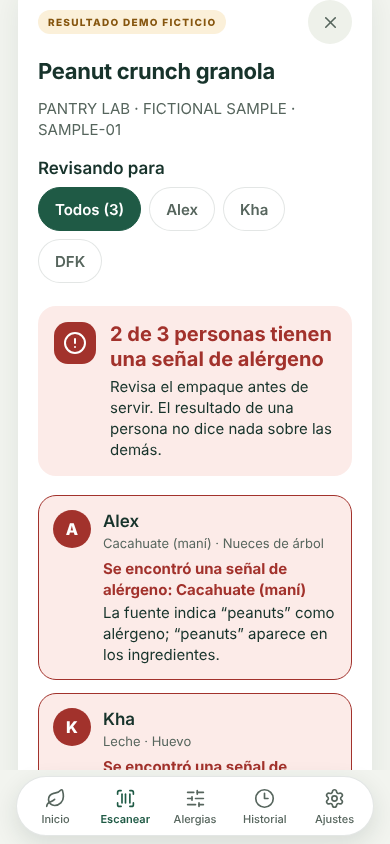
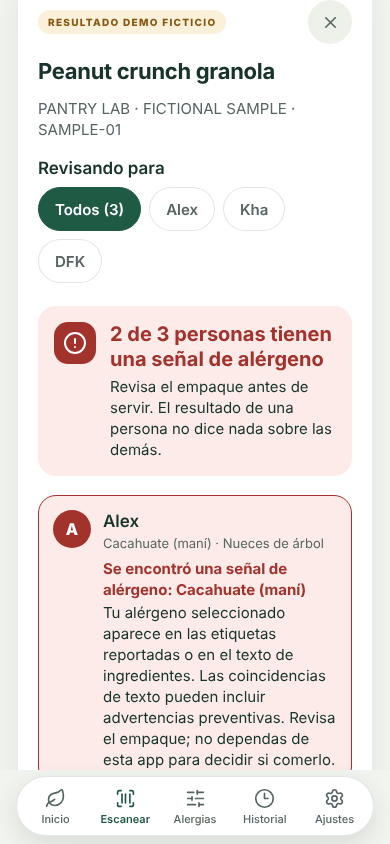
Remove evidence highlighting
Results no longer show the "Why this result" section or highlighted
ingredient words. Family profiles, the design pass and languages are
unchanged. Revert this commit to bring the feature back.

Claude-Session: https://claude.ai/code/session_013c7JU5W7uoyK8XfJoYebFz

Changed region(s): [[0.0923, 0.7085, 0.8615, 0.9242], [0.8615, 0.8009, 0.8923, 0.8318]]

diff --git a/App.tsx b/App.tsx
@@ -5,7 +5,7 @@ import { SafeAreaProvider, SafeAreaView } from 'react-native-safe-area-context';
 import { CameraView, useCameraPermissions } from 'expo-camera';
 import { ArrowUpRight, BookOpen, Camera, Check, Languages, ChevronRight, CircleAlert, CircleQuestionMark, Clock3, Info, Leaf, LockKeyhole, LogOut, Pencil, Plus, RotateCcw, ScanBarcode, Search, Settings, ShieldCheck, SlidersHorizontal, Sparkles, Trash2, TriangleAlert, UserRound, X } from 'lucide-react-native';
 import type { Session } from '@supabase/supabase-js';
-import { ALLERGENS, AllergenId, assess, Assessment, assessPeople, cleanName, Evidence, highlightIngredients, householdSummary, MAX_MEMBERS, Person, PersonResult, Product, unionAllergies, validBarcode, validName, worstKind } from './src/domain/allergens';
+import { ALLERGENS, AllergenId, assess, Assessment, assessPeople, cleanName, householdSummary, MAX_MEMBERS, Person, PersonResult, Product, validBarcode, validName, worstKind } from './src/domain/allergens';
 import { LookupError, lookupProduct, SAMPLES } from './src/data/products';
 import { detectLanguage, I18n, isLang, Lang, languageName, LANGUAGES, makeI18n, MessageKey, translate } from './src/i18n';
 import { cloudConfigured, supabase } from './src/lib/supabase';
@@ -36,16 +36,15 @@ const KIND_KEY = { contains: 'kind.contains', traces: 'kind.traces', unknown: 'k
 function words({ t, tp, list }: I18n) {
   const allergyLabel = (id: AllergenId) => t(`allergen.${id}` as MessageKey);
   const labelOf = (english: string) => { const a = ALLERGENS.find(x => x.label === english); return a ? allergyLabel(a.id) : english; };
-  const evidenceText = (e: Evidence) => t(`evidence.${e.via}` as MessageKey, { term: e.term });
   const kindTitle = (a: Assessment) => a.reason === 'no-profile' ? t('kind.noProfile.title') : t(`${KIND_KEY[a.kind]}.title` as MessageKey);
   const kindDetail = (a: Assessment) => a.reason === 'no-profile' ? t('kind.noProfile.detail') : a.reason === 'gluten' ? t('kind.unknown.gluten') : t(`${KIND_KEY[a.kind]}.detail` as MessageKey);
   const summaryTitle = (sm: ReturnType<typeof householdSummary>) => sm.kind === 'contains' ? tp('summary.contains', sm.count, { c: sm.count, n: sm.total })
     : sm.kind === 'traces' ? t('summary.traces', { c: sm.count, n: sm.total }) : sm.kind === 'unknown' ? t('summary.unknown', { c: sm.count, n: sm.total }) : t('summary.noMatch', { n: sm.total });
   const summaryDetail = (sm: ReturnType<typeof householdSummary>) => sm.kind === 'no-match' ? t('summary.noMatchDetail') : sm.kind === 'unknown' ? `${t('summary.missing')} ${t('summary.caution')}` : t('summary.caution');
-  const personReason = ({ assessment: a, evidence }: PersonResult) => evidence.length ? `${evidence.map(evidenceText).join(t('evidence.join'))}${t('evidence.end')}` : a.kind === 'no-match' ? t('person.noMatchReason') : kindDetail(a);
+  const personReason = ({ assessment: a }: PersonResult) => a.kind === 'no-match' ? t('person.noMatchReason') : kindDetail(a);
   const sourceName = (p: Product) => p.source === 'sample' ? t('source.sample') : p.source === 'usda' ? 'USDA FoodData Central' : 'Open Food Facts';
   const allergyList = (ids: AllergenId[], sep?: string) => sep ? ids.map(allergyLabel).join(sep) : list(ids.map(allergyLabel));
-  return { allergyLabel, labelOf, evidenceText, kindTitle, kindDetail, summaryTitle, summaryDetail, personReason, sourceName, allergyList };
+  return { allergyLabel, labelOf, kindTitle, kindDetail, summaryTitle, summaryDetail, personReason, sourceName, allergyList };
 }
 const toPerson = (row: { id: unknown; name: unknown; allergies: unknown }): Person | null => typeof row.id === 'string' && typeof row.name === 'string' && Array.isArray(row.allergies)
   ? { id: row.id, name: row.name, allergies: ALLERGENS.map(a => a.id).filter(id => (row.allergies as unknown[]).includes(id)) } : null;
@@ -64,7 +63,7 @@ function AppContent() {
   const [lang, setLang] = useState<Lang>(detectLanguage);
   const i18n = useMemo(() => makeI18n(lang), [lang]);
   const { t, tp } = i18n;
-  const { allergyLabel, labelOf, evidenceText, kindTitle, kindDetail, summaryTitle, summaryDetail, personReason, sourceName, allergyList } = words(i18n);
+  const { allergyLabel, labelOf, kindTitle, kindDetail, summaryTitle, summaryDetail, personReason, sourceName, allergyList } = words(i18n);
   const wide = width >= 980 && fontScale < 1.5;
   const singleColumn = width < 600 || fontScale >= 1.5;
   const [page, setPage] = useState<Page>('overview');
@@ -312,8 +311,6 @@ function AppContent() {
   const single = results.length === 1 ? results[0] : null;
   const summary = results.length > 1 ? householdSummary(results) : null;
   const assessment = single?.assessment ?? null;
-  const evidence = single?.evidence ?? [];
-  const focusAllergies = unionAllergies(viewPeople);
   const canScan = profileReady && allergies.length > 0;
   const profileChanged = draft.length !== allergies.length || draft.some(id => !allergies.includes(id));
   const inlineScanFeedback = page === 'scan' && canScan;
@@ -421,9 +418,8 @@ function AppContent() {
                   {results.map(r => { const tn = tone[RESULT[r.assessment.kind].tone]; return <View key={r.person.id} testID={`person-result-${r.person.name}`} style={[s.personCard, { borderColor: tn.fg, backgroundColor: tn.bg }]}><View style={[s.personAvatar, { backgroundColor: tn.fg }]}><Text accessible={false} style={s.personInitial}>{r.person.name.charAt(0).toUpperCase()}</Text></View><View style={{ flex: 1, gap: 2 }}><Text style={s.cardTitle}>{r.person.name}</Text><Text style={s.footnote}>{allergyList(r.person.allergies, ' · ')}</Text><Text style={[s.personVerdict, { color: tn.fg }]}>{r.assessment.matches.length ? t('result.verdict', { title: kindTitle(r.assessment), matches: i18n.list(r.assessment.matches.map(labelOf)) }) : kindTitle(r.assessment)}</Text><Text style={[s.bodySmall, { color: C.ink }]}>{personReason(r)}</Text></View></View>; })}
                 </> : assessment && <>
                 <View style={[s.resultBanner, { backgroundColor: tone[result.tone].bg, borderColor: tone[result.tone].fg }]}><View style={[s.resultIcon, { backgroundColor: tone[result.tone].fg }]}><result.Icon size={24} color={C.onAccent} /></View><View style={{ flex: 1, gap: 4 }}><Text style={[s.resultTitle, { color: tone[result.tone].fg }]}>{kindTitle(assessment)}</Text><Text style={[s.bodySmall, { color: C.ink }]}>{kindDetail(assessment)}</Text>{assessment.matches.length > 0 && <View style={s.chips}>{assessment.matches.map(m => <Text key={m} style={[s.matchChip, { color: tone[result.tone].fg, borderColor: tone[result.tone].fg }]}>{labelOf(m)}</Text>)}</View>}</View></View>
-                {evidence.length > 0 && <View testID="result-evidence" style={s.detailBlock}><Text style={s.label}>{t('result.why')}</Text>{evidence.map(e => <View key={`${e.allergen}-${e.via}-${e.term}`} style={s.evidenceRow}><Text style={[s.evidenceAllergen, { color: tone[e.via === 'trace' ? 'warning' : 'danger'].fg }]}>{labelOf(e.allergen)}</Text><Text style={[s.bodySmall, { flex: 1, color: C.ink }]}>{evidenceText(e)}</Text></View>)}</View>}
                 </>}
-                <View style={s.detailBlock}><Text style={s.label}>{t('result.ingredients')}</Text><Text testID="result-ingredients" style={s.body}>{product.ingredients ? highlightIngredients(product.ingredients, focusAllergies).map((seg, i) => seg.allergen ? <Text key={i} accessibilityLabel={t('result.matchesLabel', { text: seg.text, allergen: labelOf(seg.allergen) })} style={s.ingredientHit}>{seg.text}</Text> : seg.text) : t('result.noIngredients')}</Text></View>
+                <View style={s.detailBlock}><Text style={s.label}>{t('result.ingredients')}</Text><Text testID="result-ingredients" style={s.body}>{product.ingredients || t('result.noIngredients')}</Text></View>
                 {product.source === 'usda' ? <View style={s.detailBlock}><Text style={s.label}>{t('result.allergenCheck')}</Text><Text style={s.bodySmall}>{t('result.usdaNote')}</Text></View> : <>
                   <View style={s.detailBlock}><Text style={s.label}>{t('result.tags')}</Text><Text style={s.body}>{reportedTags(product.allergens) || t('result.noTags')}</Text></View>
                   <View style={s.detailBlock}><Text style={s.label}>{t('result.traces')}</Text><Text style={s.body}>{reportedTags(product.traces) || t('result.noTraces')}</Text></View>
@@ -529,7 +525,7 @@ const STYLES = bothSchemes((C: Palette, shadow) => StyleSheet.create({
   sampleRow: { flexDirection: 'row', gap: 12, alignItems: 'center', paddingVertical: 14, paddingHorizontal: 8, borderRadius: 12, borderBottomWidth: 1, borderColor: C.border }, sampleSwatch: { padding: 7, borderRadius: 9 },
   resultCard: { boxShadow: '0px 10px 30px rgba(23,51,43,0.08)' }, sourceBadge: { fontSize: 10, fontWeight: '800', letterSpacing: 1.3, paddingVertical: 6, paddingHorizontal: 10, borderRadius: 20, overflow: 'hidden' }, closeButton: { width: 44, height: 44, alignItems: 'center', justifyContent: 'center', borderRadius: 22, backgroundColor: C.pale },
   resultBanner: { flexDirection: 'row', gap: 14, padding: 16, borderRadius: 18, marginVertical: 6 }, resultIcon: { alignSelf: 'flex-start', padding: 9, borderRadius: 14 }, resultTitle: { ...type.title3, fontWeight: '700' },
-  matchChip: { fontSize: 12, fontWeight: '800', borderWidth: 1.5, paddingVertical: 4, paddingHorizontal: 10, borderRadius: 20, overflow: 'hidden', backgroundColor: C.paper }, detailBlock: { gap: 4 }, viewChip: { minHeight: 44, justifyContent: 'center', paddingHorizontal: 16, borderRadius: 999, borderWidth: 1, borderColor: C.separator, backgroundColor: C.paper }, viewChipOn: { backgroundColor: C.green, borderColor: C.green }, viewChipText: { ...type.subhead, fontWeight: '600', color: C.muted }, personCard: { flexDirection: 'row', gap: 12, borderWidth: 1, borderRadius: 18, padding: 14 }, personAvatar: { width: 38, height: 38, borderRadius: 19, alignItems: 'center', justifyContent: 'center' }, personInitial: { color: C.onAccent, fontWeight: '800', fontSize: 16 }, personVerdict: { ...type.subhead, fontWeight: '700', marginTop: 4 }, memberRow: { flexDirection: 'row', alignItems: 'center', gap: 12, minHeight: 52, paddingVertical: 6 }, memberForm: { gap: 10, padding: 14, borderRadius: 18, backgroundColor: C.pale }, iconButton: { width: 44, height: 44, alignItems: 'center', justifyContent: 'center', borderRadius: 22 }, radioRow: { flexDirection: 'row', alignItems: 'center', gap: 12, minHeight: 50, paddingVertical: 12, paddingHorizontal: 14, borderRadius: 14, backgroundColor: C.fill }, radioDot: { width: 18, height: 18, borderRadius: 9, borderWidth: 2, borderColor: C.borderStrong }, radioDotOn: { borderColor: C.green, borderWidth: 6 }, evidenceRow: { flexDirection: 'row', flexWrap: 'wrap', alignItems: 'baseline', gap: 8 }, evidenceAllergen: { fontSize: 13, fontWeight: '800', minWidth: 72 }, ingredientHit: { color: C.red, backgroundColor: C.redSoft, fontWeight: '800', textDecorationLine: 'underline' },
+  matchChip: { fontSize: 12, fontWeight: '800', borderWidth: 1.5, paddingVertical: 4, paddingHorizontal: 10, borderRadius: 20, overflow: 'hidden', backgroundColor: C.paper }, detailBlock: { gap: 4 }, viewChip: { minHeight: 44, justifyContent: 'center', paddingHorizontal: 16, borderRadius: 999, borderWidth: 1, borderColor: C.separator, backgroundColor: C.paper }, viewChipOn: { backgroundColor: C.green, borderColor: C.green }, viewChipText: { ...type.subhead, fontWeight: '600', color: C.muted }, personCard: { flexDirection: 'row', gap: 12, borderWidth: 1, borderRadius: 18, padding: 14 }, personAvatar: { width: 38, height: 38, borderRadius: 19, alignItems: 'center', justifyContent: 'center' }, personInitial: { color: C.onAccent, fontWeight: '800', fontSize: 16 }, personVerdict: { ...type.subhead, fontWeight: '700', marginTop: 4 }, memberRow: { flexDirection: 'row', alignItems: 'center', gap: 12, minHeight: 52, paddingVertical: 6 }, memberForm: { gap: 10, padding: 14, borderRadius: 18, backgroundColor: C.pale }, iconButton: { width: 44, height: 44, alignItems: 'center', justifyContent: 'center', borderRadius: 22 }, radioRow: { flexDirection: 'row', alignItems: 'center', gap: 12, minHeight: 50, paddingVertical: 12, paddingHorizontal: 14, borderRadius: 14, backgroundColor: C.fill }, radioDot: { width: 18, height: 18, borderRadius: 9, borderWidth: 2, borderColor: C.borderStrong }, radioDotOn: { borderColor: C.green, borderWidth: 6 },
   historyRow: { flexDirection: 'row', alignItems: 'center', gap: 14, padding: 16 }, empty: { alignItems: 'center', paddingVertical: 44 },
   mobileNavWrap: { paddingHorizontal: '4%', paddingTop: 6, paddingBottom: 8, backgroundColor: C.bg },
   groupedList: { backgroundColor: C.paper, borderRadius: 22, overflow: 'hidden', rowGap: 0 }, groupedRow: { width: '100%', borderRadius: 0, borderWidth: 0 }, groupedSeparator: { borderBottomWidth: 1, borderBottomColor: C.separator },

diff --git a/src/domain/allergens.ts b/src/domain/allergens.ts
@@ -42,55 +42,16 @@ export function validBarcode(value: string): boolean {
   return (10 - sum % 10) % 10 === check;
 }
 
-// Evidence explains an assessment; it never changes one. It reuses assess()'s tags and vocabulary so the two cannot disagree.
-export type Evidence = { allergen: string; via: 'tag' | 'trace' | 'ingredient'; term: string };
-export type Segment = { text: string; allergen?: string };
-const escape = (w: string) => w.replace(/[.*+?^${}()|[\]\\]/g, '\\$&');
-function ingredientHits(text: string, selected: AllergenId[]) {
-  const cocoa = Array.from(text.matchAll(/\bcocoa butter\b/gi), m => [m.index!, m.index! + m[0].length]);
-  const hits: { start: number; end: number; allergen: string }[] = [];
-  for (const a of ALLERGENS.filter(a => selected.includes(a.id))) for (const w of a.words) for (const m of text.matchAll(new RegExp(`\\b${escape(w)}\\b`, 'gi'))) {
-    const start = m.index!, end = start + m[0].length;
-    if (!cocoa.some(([s, e]) => start >= s && end <= e)) hits.push({ start, end, allergen: a.label });
-  }
-  // Earliest first, longest wins on ties; highlightIngredients drops overlaps so each character is highlighted once.
-  return hits.sort((x, y) => x.start - y.start || y.end - x.end);
-}
-export function highlightIngredients(text: string, selected: AllergenId[]): Segment[] {
-  const segments: Segment[] = []; let at = 0;
-  for (const h of ingredientHits(text, selected)) {
-    if (h.start < at) continue;
-    if (h.start > at) segments.push({ text: text.slice(at, h.start) });
-    segments.push({ text: text.slice(h.start, h.end), allergen: h.allergen }); at = h.end;
-  }
-  if (at < text.length) segments.push({ text: text.slice(at) });
-  return segments;
-}
-export function explain(product: Product, selected: AllergenId[]): Evidence[] {
-  const out: Evidence[] = [];
-  const add = (e: Evidence) => { if (!out.some(o => o.allergen === e.allergen && o.via === e.via && o.term === e.term)) out.push(e); };
-  const clean = (t: string) => tag(t).replace(/-/g, ' ');
-  for (const a of ALLERGENS.filter(a => selected.includes(a.id))) {
-    for (const t of product.allergens) if ((a.tags as readonly string[]).includes(tag(t))) add({ allergen: a.label, via: 'tag', term: clean(t) });
-    for (const t of product.traces) if ((a.tags as readonly string[]).includes(tag(t))) add({ allergen: a.label, via: 'trace', term: clean(t) });
-  }
-  for (const s of highlightIngredients(product.ingredients, selected)) if (s.allergen) add({ allergen: s.allergen, via: 'ingredient', term: s.text.toLowerCase() });
-  // Group by allergen so each one's reasons read together.
-  const order = (e: Evidence) => ALLERGENS.findIndex(a => a.label === e.allergen);
-  return out.sort((x, y) => order(x) - order(y));
-}
-
 // Household: the same per-person assessment, run once for each person being checked.
 export type Person = { id: string; name: string; allergies: AllergenId[] };
-export type PersonResult = { person: Person; assessment: Assessment; evidence: Evidence[] };
+export type PersonResult = { person: Person; assessment: Assessment };
 export const MAX_MEMBERS = 8;
 const SEVERITY: Record<Assessment['kind'], number> = { 'no-match': 0, unknown: 1, traces: 2, contains: 3 };
 export const worstKind = (kinds: Assessment['kind'][]) => kinds.reduce<Assessment['kind']>((w, k) => SEVERITY[k] > SEVERITY[w] ? k : w, 'no-match');
-export const unionAllergies = (people: Person[]) => ALLERGENS.map(a => a.id).filter(id => people.some(p => p.allergies.includes(id)));
 export const cleanName = (value: string) => value.trim().replace(/\s+/g, ' ');
 export const validName = (value: string) => cleanName(value).length >= 1 && cleanName(value).length <= 40;
 export function assessPeople(product: Product, people: Person[]): PersonResult[] {
-  return people.map(person => ({ person, assessment: assess(product, person.allergies), evidence: explain(product, person.allergies) }));
+  return people.map(person => ({ person, assessment: assess(product, person.allergies) }));
 }
 export function householdSummary(results: PersonResult[]): { kind: Assessment['kind']; title: string; detail: string; count: number; total: number } {
   const n = results.length;

diff --git a/tests/allergens.test.ts b/tests/allergens.test.ts
@@ -1,5 +1,5 @@
 import { describe, expect, it } from 'vitest';
-import { ALLERGENS, AllergenId, assess, assessPeople, cleanName, explain, highlightIngredients, householdSummary, Person, unionAllergies, validBarcode, validName, worstKind } from '../src/domain/allergens';
+import { ALLERGENS, AllergenId, assess, assessPeople, cleanName, householdSummary, Person, validBarcode, validName, worstKind } from '../src/domain/allergens';
 import { parseProduct, SAMPLES } from '../src/data/products';
 
 describe('allergy decisions', () => {
@@ -57,39 +57,6 @@ describe('provider normalization', () => {
     expect(p.allergens).toEqual(['en:milk']); expect(p.updatedAt).toBeUndefined();
   });
 });
-describe('result evidence', () => {
-  const base = { ...SAMPLES[2], allergens: [], traces: [] };
-  it('highlights the exact ingredient words that matched, keeping the original text', () => {
-    const segs = highlightIngredients('Sugar, Whey powder, tahini.', ['milk', 'sesame']);
-    expect(segs.map(s => s.text).join('')).toBe('Sugar, Whey powder, tahini.');
-    expect(segs.filter(s => s.allergen)).toEqual([{ text: 'Whey', allergen: 'Milk' }, { text: 'tahini', allergen: 'Sesame' }]);
-  });
-  it('does not highlight cocoa butter or words inside other words', () => {
-    expect(highlightIngredients('Cocoa butter, eggplant.', ['milk', 'eggs']).some(s => s.allergen)).toBe(false);
-    expect(highlightIngredients('Cocoa butter, butter.', ['milk']).filter(s => s.allergen)).toEqual([{ text: 'butter', allergen: 'Milk' }]);
-  });
-  it('only highlights selected allergens', () => {
-    expect(highlightIngredients('Milk, peanuts.', ['peanuts']).filter(s => s.allergen).map(s => s.text)).toEqual(['peanuts']);
-  });
-  it('explains tags, traces and ingredient words separately', () => {
-    const e = explain({ ...base, allergens: ['en:milk'], traces: ['en:tree-nuts'], ingredients: 'Whey, whey, almonds.' }, ['milk', 'tree-nuts']);
-    expect(e).toEqual([
-      { allergen: 'Milk', via: 'tag', term: 'milk' },
-      { allergen: 'Milk', via: 'ingredient', term: 'whey' },
-      { allergen: 'Tree nuts', via: 'trace', term: 'tree nuts' },
-      { allergen: 'Tree nuts', via: 'ingredient', term: 'almonds' },
-    ]);
-  });
-  it('has evidence for every allergen assess() reports', () => {
-    for (const p of SAMPLES) for (const sel of [['milk', 'peanuts'], ALLERGENS.map(a => a.id)] as AllergenId[][]) {
-      const labels = new Set(explain(p, sel).map(e => e.allergen));
-      for (const m of assess(p, sel).matches) expect(labels.has(m)).toBe(true);
-    }
-  });
-  it('has no evidence for a no-match result', () => {
-    expect(explain({ ...base, ingredients: 'Oats, salt.' }, ['milk'])).toEqual([]);
-  });
-});
 describe('household results', () => {
   const alex: Person = { id: 'me', name: 'Alex', allergies: ['peanuts', 'tree-nuts'] };
   const kha: Person = { id: 'k', name: 'Kha', allergies: ['milk', 'eggs'] };
@@ -110,9 +77,6 @@ describe('household results', () => {
     expect(worstKind(['unknown', 'traces'])).toBe('traces');
     expect(worstKind(['traces', 'contains', 'no-match'])).toBe('contains');
     expect(worstKind([])).toBe('no-match');
-  });
-  it('unions allergies in canonical order for highlighting', () => {
-    expect(unionAllergies([dfk, alex, kha])).toEqual(['milk', 'eggs', 'peanuts', 'tree-nuts', 'sesame']);
   });
   it('accepts names of 1 to 40 characters after trimming', () => {
     expect(cleanName('  Kha   Le ')).toBe('Kha Le');

diff --git a/src/i18n/bn.ts b/src/i18n/bn.ts
@@ -114,9 +114,7 @@ export const bn: Messages = {
   'summary.noMatchDetail': 'এটি কারও জন্যই অ্যালার্জেনমুক্ত বা খাওয়ার জন্য নিরাপদ হওয়ার নিশ্চয়তা নয়। রেসিপি, লেবেল ও ক্রস-কন্টাক্ট ভিন্ন হতে পারে; সবসময় প্যাকেট দেখুন।',
   'result.verdict': '{title}: {matches}',
   'person.noMatchReason': 'খাওয়ার জন্য নিরাপদ হওয়ার নিশ্চয়তা নয়। ক্রস-কন্টাক্ট অজানা; প্যাকেট দেখুন।',
-  'evidence.ingredient': 'উপাদানের তালিকায় “{term}” আছে', 'evidence.tag': 'উৎসে “{term}” অ্যালার্জেন হিসেবে উল্লেখ আছে', 'evidence.trace': 'উৎসে “{term}” সম্ভাব্য ট্রেস হিসেবে উল্লেখ আছে',
-  'evidence.join': '; ', 'evidence.end': '।',
-  'result.why': 'কেন এই ফলাফল', 'result.ingredients': 'জানানো উপাদান', 'result.matchesLabel': '{text}, {allergen}-এর সঙ্গে মেলে', 'result.noIngredients': 'উৎস থেকে দেওয়া হয়নি।',
+  'result.ingredients': 'জানানো উপাদান', 'result.noIngredients': 'উৎস থেকে দেওয়া হয়নি।',
   'result.allergenCheck': 'অ্যালার্জেন যাচাই',
   'result.usdaNote': 'USDA প্রস্তুতকারকের উপাদান-বিবৃতি দেয়, আলাদা অ্যালার্জেন বা ট্রেস ট্যাগ দেয় না। শুধু ওপরের লেখাটি যাচাই করা হয়েছে; ক্রস-কন্টাক্ট অজানাই থেকে যায়।',
   'result.tags': 'জানানো অ্যালার্জেন ট্যাগ', 'result.noTags': 'কিছু তালিকাভুক্ত নেই — এর মানে অনুপস্থিতি নিশ্চিত নয়।',

diff --git a/src/i18n/vi.ts b/src/i18n/vi.ts
@@ -114,9 +114,7 @@ export const vi: Messages = {
   'summary.noMatchDetail': 'Đây không phải là sự đảm bảo không có chất gây dị ứng hay an toàn để ăn cho bất kỳ ai. Công thức, nhãn và nhiễm chéo có thể khác; luôn kiểm tra bao bì.',
   'result.verdict': '{title}: {matches}',
   'person.noMatchReason': 'Không phải sự đảm bảo an toàn để ăn. Chưa rõ nguy cơ nhiễm chéo; hãy kiểm tra bao bì.',
-  'evidence.ingredient': '“{term}” xuất hiện trong thành phần', 'evidence.tag': 'Nguồn dữ liệu ghi “{term}” là chất gây dị ứng', 'evidence.trace': 'Nguồn dữ liệu ghi “{term}” là dấu vết có thể có',
-  'evidence.join': '; ', 'evidence.end': '.',
-  'result.why': 'Vì sao có kết quả này', 'result.ingredients': 'Thành phần được báo cáo', 'result.matchesLabel': '{text}, khớp với {allergen}', 'result.noIngredients': 'Nguồn dữ liệu không cung cấp.',
+  'result.ingredients': 'Thành phần được báo cáo', 'result.noIngredients': 'Nguồn dữ liệu không cung cấp.',
   'result.allergenCheck': 'Kiểm tra chất gây dị ứng',
   'result.usdaNote': 'USDA cung cấp bảng thành phần của nhà sản xuất, không có nhãn riêng về chất gây dị ứng hay dấu vết. Chỉ phần văn bản trên được kiểm tra; nguy cơ nhiễm chéo vẫn chưa rõ.',
   'result.tags': 'Nhãn chất gây dị ứng được báo cáo', 'result.noTags': 'Không có trong danh sách — không xác nhận là không có.',

diff --git a/src/i18n/es.ts b/src/i18n/es.ts
@@ -114,9 +114,7 @@ export const es: Messages = {
   'summary.noMatchDetail': 'Esto no es una garantía para nadie de que esté libre de alérgenos ni de que sea seguro comerlo. Las recetas, etiquetas y el contacto cruzado pueden variar; siempre revisa el empaque.',
   'result.verdict': '{title}: {matches}',
   'person.noMatchReason': 'No es una garantía de que sea seguro comerlo. Se desconoce el contacto cruzado; revisa el empaque.',
-  'evidence.ingredient': '“{term}” aparece en los ingredientes', 'evidence.tag': 'La fuente indica “{term}” como alérgeno', 'evidence.trace': 'La fuente indica “{term}” como posible traza',
-  'evidence.join': '; ', 'evidence.end': '.',
-  'result.why': 'Por qué este resultado', 'result.ingredients': 'Ingredientes reportados', 'result.matchesLabel': '{text}, coincide con {allergen}', 'result.noIngredients': 'La fuente no los proporciona.',
+  'result.ingredients': 'Ingredientes reportados', 'result.noIngredients': 'La fuente no los proporciona.',
   'result.allergenCheck': 'Revisión de alérgenos',
   'result.usdaNote': 'USDA proporciona la lista de ingredientes del fabricante, no etiquetas separadas de alérgenos ni de trazas. Solo se revisó el texto de arriba; el contacto cruzado sigue siendo desconocido.',
   'result.tags': 'Etiquetas de alérgenos reportadas', 'result.noTags': 'Ninguna indicada — no confirma que no haya alérgenos.',

diff --git a/src/i18n/zh.ts b/src/i18n/zh.ts
@@ -114,9 +114,7 @@ export const zh: Messages = {
   'summary.noMatchDetail': '这不代表对任何人保证不含过敏原或可安全食用。配方、标签和交叉接触情况可能不同；请务必查看包装。',
   'result.verdict': '{title}：{matches}',
   'person.noMatchReason': '不保证可安全食用。交叉接触情况未知；请查看包装。',
-  'evidence.ingredient': '配料中出现“{term}”', 'evidence.tag': '数据源将“{term}”列为过敏原', 'evidence.trace': '数据源将“{term}”列为可能的微量成分',
-  'evidence.join': '；', 'evidence.end': '。',
-  'result.why': '为何得出此结果', 'result.ingredients': '已报告的配料', 'result.matchesLabel': '{text}，匹配{allergen}', 'result.noIngredients': '数据源未提供。',
+  'result.ingredients': '已报告的配料', 'result.noIngredients': '数据源未提供。',
   'result.allergenCheck': '过敏原检查',
   'result.usdaNote': 'USDA 提供的是制造商的配料说明，不含单独的过敏原或微量成分标签。仅检查了上方文字；交叉接触情况仍然未知。',
   'result.tags': '已报告的过敏原标签', 'result.noTags': '未列出 — 不代表确认不含。',

diff --git a/src/i18n/en.ts b/src/i18n/en.ts
@@ -114,9 +114,7 @@ export const en = {
   'summary.noMatchDetail': 'This is not an allergy-free or safe-to-eat guarantee for anyone. Recipes, labels and cross-contact can differ; always check the package.',
   'result.verdict': '{title}: {matches}',
   'person.noMatchReason': 'Not a safe-to-eat guarantee. Cross-contact is unknown; check the package.',
-  'evidence.ingredient': '"{term}" appears in the ingredients', 'evidence.tag': 'The source lists "{term}" as an allergen', 'evidence.trace': 'The source lists "{term}" as a possible trace',
-  'evidence.join': '; ', 'evidence.end': '.',
-  'result.why': 'Why this result', 'result.ingredients': 'Reported ingredients', 'result.matchesLabel': '{text}, matches {allergen}', 'result.noIngredients': 'Not provided by the source.',
+  'result.ingredients': 'Reported ingredients', 'result.noIngredients': 'Not provided by the source.',
   'result.allergenCheck': 'Allergen check',
   'result.usdaNote': 'USDA provides the manufacturer ingredient statement, not separate allergen or trace tags. Only the text above was checked; cross-contact remains unknown.',
   'result.tags': 'Reported allergen tags', 'result.noTags': 'None listed — does not confirm absence.',

diff --git a/tests/e2e/household.spec.ts b/tests/e2e/household.spec.ts
@@ -17,11 +17,10 @@ test('one scan shows a result for each household member', async ({ page }) => {
   await page.getByTestId('product-result').scrollIntoViewIfNeeded();
   await page.screenshot({ path: 'artifacts/household-result-mobile.png', fullPage: true });
 
-  // Switching to one person shows the single-person result and only their highlighted words.
+  // Switching to one person shows the single-person result.
   await page.getByRole('radio', { name: 'Check for DFK' }).click();
   await expect(page.getByTestId('household-summary')).toHaveCount(0);
   await expect(page.getByText('No selected allergens found', { exact: true })).toBeVisible();
-  await expect(page.getByLabel(/matches/)).toHaveCount(0);
   expect(errors).toEqual([]);
 });
 

diff --git a/wiki/README.md b/wiki/README.md
@@ -145,3 +145,9 @@ Latest final results recorded after implementation below. See `tests/` for repea
 - Not translated: product names, brands and ingredient lists (shown as the source wrote them) and ingredient matching, which stays English. Domain code still produces English titles; the UI translates from the result kind, reason codes and lookup error codes.
 - Translations are machine-drafted and need native-speaker review before launch, especially allergen names (regional peanut/sesame words in es and vi, crustacean shellfish in bn and zh) and every "not a safe-to-eat guarantee" line.
 - Validation: TypeScript passed; 91 unit/database tests passed (new translation checks and a language RLS test); 13 Playwright flows passed (new `language.spec.ts`: switch to Español in Settings, start in Vietnamese from a vi-VN browser). Screenshots inspected in all five languages at 390 × 844. Device and screen-reader QA pending. No Lua/Luau changed; Selene not applicable.
+
+## Evidence highlighting removed - 2026-10-14
+
+- Alex asked to remove evidence highlighting. Results no longer show **Why this result**, and the ingredient list is plain text with no highlighted words. Household person cards now show the outcome detail instead of per-word reasons.
+- Removed `explain()`, `highlightIngredients()`, `unionAllergies()` and the `Evidence` type from `src/domain/allergens.ts`, the `evidence.*`, `result.why` and `result.matchesLabel` strings from all five dictionaries, `tests/e2e/evidence.spec.ts` and `artifacts/evidence-mobile.png`. `assess()` is unchanged, so outcomes are the same. To bring it back, revert this commit.
+- Validation: TypeScript passed; 84 unit/database tests passed (7 evidence-only tests removed); 12 Playwright flows passed, live test skipped.
